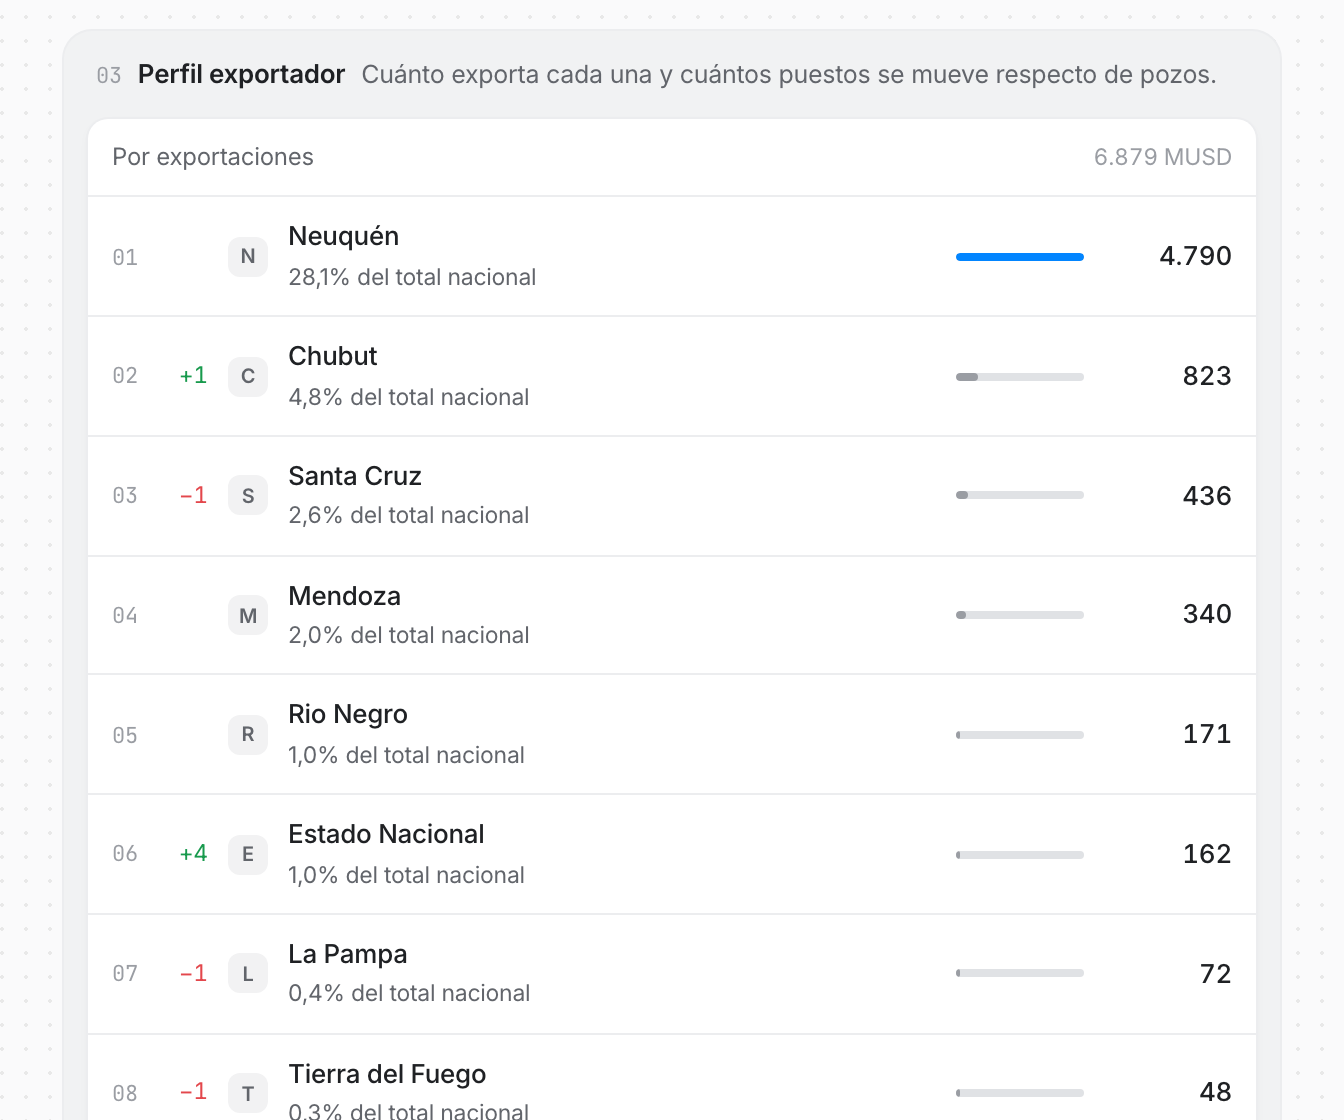
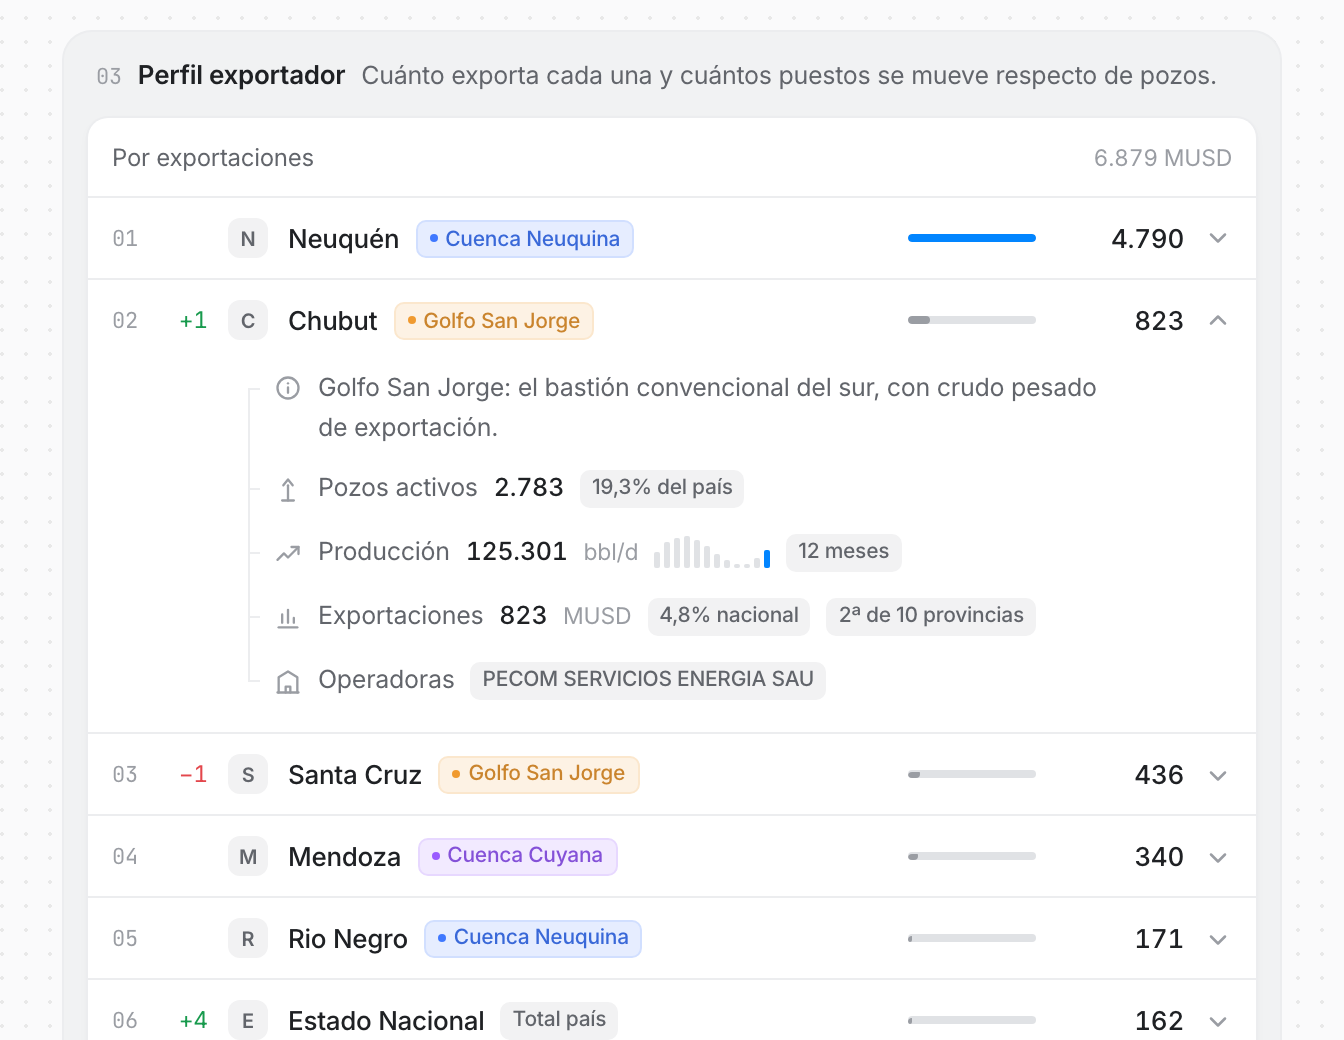
v2(provincias): una sola fila para las dos listas
Tenías razón: no coincidía nada. Medido, fila colapsada contra fila colapsada:

              sec 02   sec 03
  alto          40       60
  renglones      1        2
  tag de cuenca sí       no
  x pastilla    42       70
  x nombre      72      100
  x barra      410      434
  x valor      484      508
  chevron       sí       no

Dos listas de las mismas once provincias, una debajo de la otra, con
geometrías distintas. "Perfil exportador" usaba FilaRanking con la nota en un
segundo renglón; ahora usa la misma FilaProvincia que la lista de pozos.

La fila dejó de saber qué la ordena: la cifra de cabecera y la proporción de la
barra entran por prop. Lo único que cambia entre listas es qué número muestra y
si trae la columna de movimiento.

Barra, cifra y chevron quedan en la misma x en las dos (410 / 484 / 558). Las
tres columnas de la izquierda van 28px corridas en la lista de exportaciones,
que es exactamente el ancho de la columna de movimiento. El riel del desplegable
se calcula ahora en vez de estar fijo, así sigue cayendo en el centro de la
pastilla en las dos: desfasaje 0 en ambas.

El "% del total nacional" que vivía en el segundo renglón no se pierde: ya
estaba adentro del desglose, como badge del paso de exportaciones.

Efecto lateral que hubo que resolver: la columna nueva le come 28px a la ranura
del nombre, que a 375 ya estaba justa, y el tag se montaba 14px sobre la cifra
en "Tierra del Fuego" y "Estado Nacional". El piso del tag baja de 34 a 18px
[…]

diff --git a/apps/ui-prototype/src/app/v2/provincias/FilaProvincia.tsx b/apps/ui-prototype/src/app/v2/provincias/FilaProvincia.tsx
@@ -22,14 +22,27 @@ import type { Province } from '@/fixtures/provinces'
    y por eso el gesto se siente responder al clic y no arrastrarse.
 
    El contenido de adentro es el de la página de provincia del sitio, servido
-   con las piezas del sistema: la descripción, tres lecturas y las operadoras
-   que trabajan ahí. */
+   con las piezas del sistema: la descripción, cuatro lecturas y las operadoras
+   que trabajan ahí.
+
+   La MISMA fila sirve para las dos listas de la página. Antes "Perfil
+   exportador" tenía su propia pieza y no coincidía en nada con esta: 60px de
+   alto contra 40, dos renglones contra uno, sin el tag de cuenca, y las cinco
+   columnas corridas entre 24 y 28px. Eran dos listas de las mismas once
+   provincias, una debajo de la otra, con geometrías distintas.
+
+   Por eso la cifra de cabecera y la proporción de la barra entran por prop: la
+   fila no sabe si la están ordenando por pozos o por exportaciones. Lo único
+   que cambia entre listas es qué número muestra y si trae la columna de
+   movimiento. */
 
 export function FilaProvincia({
   p,
   n,
+  valor,
   pct,
   lider,
+  delta,
   tagColor,
   operadoras,
   pctPozos,
@@ -40,9 +53,15 @@ export function FilaProvincia({
 }: {
   p: Province
   n: number
+  /** cifra de cabecera de ESTA lista, ya formateada: pozos en una, MUSD en la
+      otra. La fila es la misma pieza en las dos y no sabe cuál está mirando. */
+  valor: string
   /** 0..1 sobre el máximo de la lista */
   pct: number
   lider: boolean
+  /** puestos que se mueve respecto del otro ranking de la página. Sin valor,
+      la columna no se dibuja. */
+  delta?: number
   /** sin valor cuando la cuenca no es una cuenca; el tag va neutro */
   tagColor?: string
   /** nombres ya resueltos: una función no cruza de server a client component */
@@ -74,6 +93,21 @@ export function FilaProvincia({
         <span className="s-mono w-5 shrink-0 text-[11px]" style={{ color: 'var(--ink-3)' }}>
           {String(n).padStart(2, '0')}
         </span>
+        {/* El delta va pegado al puesto porque es del PUESTO: al final de la
+            fila, contra la cifra, se leería como una variación de la cifra.
+            Ancho fijo aunque esté vacío —cinco de las once no se mueven— para
+            que los nombres no arranquen en x distintas. El cero no se dibuja:
+            un "0" verde o rojo sería color sin significado. */}
+        {delta !== undefined && (
+          <span
+            className={`shrink-0 text-right ${
+              delta === 0 ? '' : delta > 0 ? 's-delta s-delta--sube' : 's-delta s-delta--baja'
+            }`}
+            style={{ width: 18 }}
+          >
+            {delta === 0 ? '' : delta > 0 ? `+${delta}` : `\u2212${Math.abs(delta)}`}
+          </span>
+        )}
         <Marca nombre={p.name} />
         <span className="flex min-w-0 flex-1 items-center gap-2">
           {/* shrink-0: el nombre no cede, cede el tag. Cabe siempre —el más
@@ -87,11 +121,12 @@ export function FilaProvincia({
         >
           <i style={{ width: `${Math.max(3, pct * 100)}%` }} />
         </span>
-        {/* 48px abajo de sm y 64 arriba. El número más ancho de la lista mide
-            37 (medido con un Range sobre las once filas), así que los 64 fijos
-            eran 27 de aire que a 375 le faltaban al nombre de la provincia. */}
-        <span className="s-num w-12 shrink-0 text-right text-[13px] font-medium sm:w-16">
-          {formatInteger(p.wells)}
+        {/* 40px abajo de sm y 64 arriba. El número más ancho de las dos listas
+            mide 37 (medido con un Range sobre las once filas de cada una), así
+            que arriba sobra aire de propósito y abajo se le da lo justo: a 375
+            esos píxeles los necesita el nombre de la provincia. */}
+        <span className="s-num w-10 shrink-0 text-right text-[13px] font-medium sm:w-16">
+          {valor}
         </span>
         {/* chevron: 14px con trazo 2,2 — el mismo de la traza expandible de la
             referencia. Rota en 300ms, cien menos que el panel. */}
@@ -125,10 +160,17 @@ export function FilaProvincia({
         }}
       >
         <div style={{ overflow: 'hidden' }}>
-          {/* El contenido arranca en 59, que deja el riel en 52: el centro
-              exacto de la pastilla de la fila (12 de padding + 20 del rango +
-              10 de gap + 10 de media pastilla). */}
-          <div style={{ padding: '2px 12px 12px 59px' }}>
+          {/* El riel tiene que caer en el centro de la pastilla, y la pastilla
+              se corre cuando la lista trae columna de movimiento. Se calcula en
+              vez de quedar fijo en 59:
+
+                12 de padding + 20 del rango + 10 de gap
+                (+ 18 del delta + 10 de gap, si lo hay)
+                + 10 de media pastilla = 52 u 80
+
+              y el contenido arranca 7px a la derecha del riel, que es la
+              separación medida en la referencia. */}
+          <div style={{ padding: `2px 12px 12px ${(delta === undefined ? 52 : 80) + 7}px` }}>
             {/* Todo cuelga como hijo DIRECTO del riel, sin envolver nada en un
                 contenedor: si no, el codo se engancharía al contenedor y habría
                 un solo codo para los cuatro. */}

diff --git a/apps/ui-prototype/src/app/v2/provincias/page.tsx b/apps/ui-prototype/src/app/v2/provincias/page.tsx
@@ -1,4 +1,4 @@
-import { Seccion, Card, CardHead, FilaRanking, Dato, Pie, Tag, asignarColores } from '../_ui/kit'
+import { Seccion, Card, CardHead, Dato, Pie, Tag, asignarColores } from '../_ui/kit'
 import { FilaProvincia } from './FilaProvincia'
 import { COMPANIES } from '@/fixtures/companies'
 import { PROVINCES, SOLO_PROVINCIAS } from '@/fixtures/provinces'
@@ -86,6 +86,7 @@ export default function V2Provincias() {
               key={p.slug}
               p={p}
               n={i + 1}
+              valor={formatInteger(p.wells)}
               pct={p.wells / maxPozos}
               lider={i === 0}
               tagColor={colorCuenca.get(p.basin)}
@@ -128,17 +129,29 @@ export default function V2Provincias() {
       >
         <Card>
           <CardHead titulo="Por exportaciones" nota={`${formatCompactAR(totalExpo)} MUSD`} />
+          {/* La MISMA fila que la sección 02. Antes era FilaRanking con la nota
+              en un segundo renglón, y entre las dos listas no coincidía nada:
+              60px de alto contra 40, dos renglones contra uno, sin tag de
+              cuenca y las cinco columnas corridas entre 24 y 28px. El "% del
+              total nacional" que estaba en ese segundo renglón no se pierde:
+              ya vivía adentro del desglose, como badge del paso de
+              exportaciones. */}
           {porExpo.map((p, i) => (
-            <FilaRanking
+            <FilaProvincia
               key={p.slug}
+              p={p}
               n={i + 1}
-              nombre={p.name}
               valor={formatCompactAR(p.exportsMUSD)}
               pct={p.exportsMUSD / maxExpo}
               lider={i === 0}
-              marca
-              nota={`${formatDecimal(p.expSharePct, 1)}% del total nacional`}
               delta={(puestoPozosDe.get(p.slug) ?? i + 1) - (i + 1)}
+              tagColor={colorCuenca.get(p.basin)}
+              operadoras={(p.operators ?? []).map((s) => NOMBRES.get(s) ?? s)}
+              pctPozos={(p.wells / totalPozos) * 100}
+              puestoExpo={puestoExpoDe.get(p.slug)}
+              totalProvincias={SOLO_PROVINCIAS.length}
+              serie={serieProvincia(p.slug, p.wells)}
+              meses={meses}
             />
           ))}
         </Card>

diff --git a/apps/ui-prototype/src/app/v2/sistema.css b/apps/ui-prototype/src/app/v2/sistema.css
@@ -418,16 +418,23 @@
    "N.". El nombre es la identidad de la fila y el tag es la anotación, así
    que el orden de cesión tiene que ser ese.
 
-   Medido a 375: la ranura de nombre+tag da 137px. El nombre más largo de las
-   once provincias es "Tierra del Fuego" con 100, así que el piso del tag son
-   34px y no hay desborde en ninguna fila. En esa fila el tag queda reducido a
-   su punto de color y poco más; es el precio de que el nombre nunca se corte,
-   y es el reparto correcto. De 640 para arriba nada de esto se activa. */
+   Medido a 375: la ranura de nombre+tag da 137px en la lista de pozos y 117 en
+   la de exportaciones, que tiene una columna más —el movimiento de puesto—. El
+   nombre más largo de las once provincias es "Tierra del Fuego" con 100, así
+   que en la lista angosta al tag le quedan 9px.
+
+   El piso son 18px: 4 del punto + 12 de padding + 2 de borde, o sea lo justo
+   para que el punto de color siga estando. Debajo de eso el tag no sería una
+   etiqueta corta sino un recorte roto. En esas dos filas queda como una marca
+   de color sin texto, que sigue diciendo a qué cuenca pertenece.
+
+   Con 34, que era el piso anterior, el tag se montaba 14px sobre la cifra en
+   la lista de exportaciones. De 640 para arriba nada de esto se activa. */
 .s-tag {
   display: inline-flex;
   align-items: center;
   flex-shrink: 1;
-  min-width: 34px;
+  min-width: 18px;
   height: 19px;
   max-width: 140px;
   padding: 0 6px;
